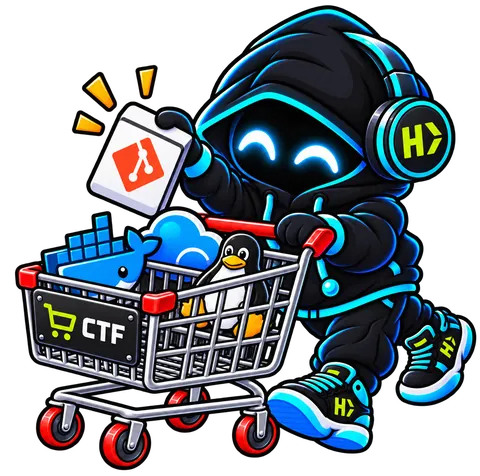
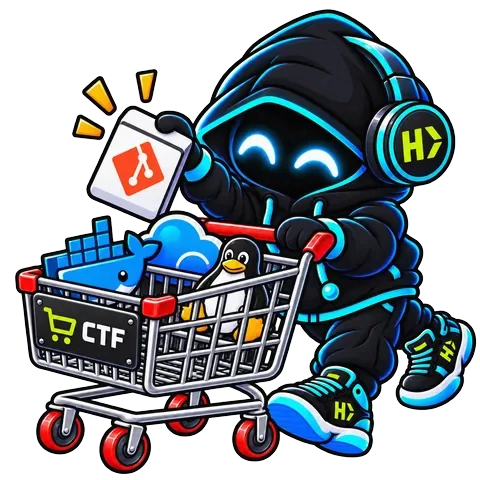
shop: 15-frame shopping mascot with the new HQ frames, one frame per moment
- Add 8 HQ frames (enter, discover, pick, fill, rush, buy, cheer, ready) as WebP;
  all 15 shop frames now share one 480x480 canvas so the character never jumps
- Moments: page open (idle), packages in view (enter), resting (arrive),
  hover a package (discover, names its size and price), Buy (pick), then rush,
  checkout (bill), placing the order (buy, held at least 0.9s), order placed
  (cheer + confetti), after ordering (ready), leaving checkout (sad),
  builder add (alternating), builder full cart (fill), remove/empty (arrive)
- The delayed entrance no longer interrupts a visitor who buys within 4 seconds
- Frame-specific motion: hop on cheer, jitter on rush, look-around on discover

Verified in a browser: all 16 moments plus the fast-buyer path, desktop and mobile, no errors.

Claude-Session: https://claude.ai/code/session_01BwzhZMmDCDnBwMmyX4xmrq

Changed region(s): [[0.0312, 0.0, 1.0, 0.9706], [0.5312, 0.8824, 0.625, 0.9706], [0.2812, 0.9412, 0.3125, 0.9706]]

diff --git a/src/pages/HostYourCTF.tsx b/src/pages/HostYourCTF.tsx
@@ -376,7 +376,9 @@ export default function HostYourCTF() {
             if (e.isIntersecting && !seenPackages.current) {
               seenPackages.current = true;
               if (restFrame.current === "idle") restFrame.current = "arrive";
-              act("arrive", "Choose a package and I'll add it to your cart.");
+              // Only make an entrance if nothing else is happening (no checkout, no action in progress).
+              if (lastDrawer.current === "closed" && ["idle", "arrive"].includes(frameRef.current))
+                act("enter", "Let's go shopping! Pick a package and I'll carry it.", 2600);
             }
           },
           { threshold: 0.25 }
@@ -389,17 +391,35 @@ export default function HostYourCTF() {
       window.clearTimeout(watch);
       window.clearTimeout(actTimer.current);
       window.clearTimeout(openTimer.current);
+      window.clearTimeout(rushTimer.current);
       io?.disconnect();
     };
   }, [act]);
 
   /* Buy: the pack goes into the trolley, then checkout opens. */
+  const rushTimer = React.useRef<number>();
   const withAdd = (label: string, open: () => void) => {
     const reduce = window.matchMedia("(prefers-reduced-motion: reduce)").matches;
-    act("add-1", label);
+    act("pick", label);
     window.clearTimeout(openTimer.current);
-    if (reduce) open();
-    else openTimer.current = window.setTimeout(open, 800);
+    window.clearTimeout(rushTimer.current);
+    if (reduce) return open();
+    rushTimer.current = window.setTimeout(() => setFrame("rush"), 650);
+    openTimer.current = window.setTimeout(open, 1150);
+  };
+
+  /* Row 4: hovering a package card while the mascot is resting -> discover it. */
+  const frameRef = React.useRef(frame);
+  React.useEffect(() => {
+    frameRef.current = frame;
+  }, [frame]);
+  const RESTING: ShopFrame[] = ["idle", "arrive", "fill", "ready", "discover"];
+  const hoverPlan = (p: (typeof plans)[number] | null) => {
+    if (!window.matchMedia("(pointer: fine)").matches || !RESTING.includes(frameRef.current)) return;
+    if (p) {
+      const n = p.features.find((f) => /\d+ challenges/.test(f))?.match(/\d+ challenges/)?.[0];
+      act("discover", `${p.name}? ${n ? `${n}, ` : ""}$${p.usd}.`);
+    } else act(restFrame.current);
   };
   const [showBuilder, setShowBuilder] = React.useState(() => typeof window !== "undefined" && window.location.hash === "#build");
 
@@ -445,26 +465,40 @@ export default function HostYourCTF() {
   /* ---------- mascot reacts to the trolley, checkout, idling and leaving ---------- */
   // Resting frame: trolley with packs while a custom build has challenges in it.
   React.useEffect(() => {
-    const rest: ShopFrame = showBuilder && challengeCount > 0 ? "add-2" : seenPackages.current ? "arrive" : "idle";
+    const rest: ShopFrame = showBuilder && challengeCount > 0 ? "fill" : seenPackages.current ? "arrive" : "idle";
     restFrame.current = rest;
   }, [showBuilder, challengeCount]);
 
   // Checkout opens -> the bill; order placed -> celebrate; closed without ordering -> sad.
   const lastDrawer = React.useRef(drawer);
+  const buyAt = React.useRef(0);
+  const cheerTimer = React.useRef<number>();
   React.useEffect(() => {
     const was = lastDrawer.current;
     lastDrawer.current = drawer;
     if (drawer === "checkout" && order) {
       act("bill", `Total ${money(order.total)}${order.quoted ? " + quote" : ""}. No payment now: we confirm your date first.`);
     } else if (drawer === "done") {
-      act("success", "Order received. Check your email for next steps.");
-      setCelebrate((n) => n + 1);
+      // Let "pressing BUY" be seen for a moment even when the order is instant.
+      const wait = Math.max(0, 900 - (Date.now() - buyAt.current));
+      window.clearTimeout(cheerTimer.current);
+      cheerTimer.current = window.setTimeout(() => {
+        act("cheer", "Order received! Check your email for next steps.");
+        setCelebrate((n) => n + 1);
+      }, wait);
     } else if (drawer === "closed" && was === "checkout") {
       act("sad", "No problem. Come back whenever you're ready.", 3200);
     } else if (drawer === "closed" && was === "done") {
-      act("success", "Thank you! See you on the scoreboard.", 3000);
+      act("ready", "Thank you! Ready for the next one anytime.", 3200);
     }
   }, [drawer, order, act]);
+
+  React.useEffect(() => {
+    if (!submitting) return;
+    buyAt.current = Date.now();
+    act("buy", "Placing your order…");
+  }, [submitting, act]);
+  React.useEffect(() => () => window.clearTimeout(cheerTimer.current), []);
 
   // Idle for 30s -> looks around with a hint (twice at most).
   React.useEffect(() => {
@@ -535,7 +569,7 @@ export default function HostYourCTF() {
     // Is anything left in the whole build after this removal?
     const leftAfter = challengeCount - (cur - next);
     if (leftAfter <= 0) act("arrive", "Your cart is empty. Add a category to start.", 2400);
-    else act("idle", `Removed ${cur - next} × ${catName(catId)} (${tier}).`, 1300);
+    else act("arrive", `Removed ${cur - next} × ${catName(catId)} (${tier}).`, 1300);
     setQty(catId, tier, next);
   };
 
@@ -881,6 +915,8 @@ export default function HostYourCTF() {
           {plans.map((plan) => (
             <article
               key={plan.id}
+              onPointerEnter={() => hoverPlan(plan)}
+              onPointerLeave={() => hoverPlan(null)}
               className={`relative flex flex-col p-6 ${plan.featured ? "card-luxe lg:-translate-y-3" : "sticker"}`}
             >
               <div className="flex items-start justify-between">

diff --git a/src/index.css b/src/index.css
@@ -569,7 +569,7 @@ img[loading="lazy"] { transition: filter 0.3s; }
   filter: blur(26px); opacity: .55; animation: shop-pulse 2.8s ease-in-out infinite; transition: transform .35s ease; }
 @keyframes shop-pulse { 0%,100% { opacity: .4; } 50% { opacity: .9; } }
 [data-hot] .shop-aura { transform: scale(1.2); animation-duration: 1s; }
-[data-frame="success"] .shop-aura { background: radial-gradient(circle, rgba(198,241,53,.7), rgba(59,211,255,.25) 50%, transparent 72%); }
+[data-frame="success"] .shop-aura, [data-frame="cheer"] .shop-aura, [data-frame="ready"] .shop-aura { background: radial-gradient(circle, rgba(198,241,53,.7), rgba(59,211,255,.25) 50%, transparent 72%); }
 [data-frame="sad"] .shop-aura { background: radial-gradient(circle, rgba(120,140,255,.45), transparent 70%); }
 
 .shop-platform { position: absolute; left: 6%; right: 6%; bottom: -4%; height: 26%; pointer-events: none; perspective: 500px; }
@@ -599,7 +599,10 @@ img[loading="lazy"] { transition: filter 0.3s; }
 @keyframes shop-look { 0%,100% { transform: rotate(0); } 25% { transform: rotate(-3deg) translateY(-3px); } 60% { transform: rotate(3deg); } }
 [data-frame="sad"] .shop-float { animation-name: shop-sob; animation-duration: 1.4s; }
 @keyframes shop-sob { 0%,100% { transform: translateY(0); } 50% { transform: translateY(3px) scaleY(.98); } }
-[data-frame="success"] .shop-float { animation-name: shop-hop; animation-duration: .9s; }
+[data-frame="success"] .shop-float, [data-frame="cheer"] .shop-float { animation-name: shop-hop; animation-duration: .9s; }
+[data-frame="rush"] .shop-float { animation-name: shop-rush; animation-duration: .45s; }
+@keyframes shop-rush { 0%,100% { transform: translate(0,0) rotate(0); } 50% { transform: translate(3px,-3px) rotate(-1.5deg); } }
+[data-frame="discover"] .shop-float { animation-name: shop-look; animation-duration: 2.4s; }
 @keyframes shop-hop { 0%,100% { transform: translateY(0); } 40% { transform: translateY(-12px); } }
 
 /* trolley counter */

diff --git a/src/components/shared/ShopMascot.tsx b/src/components/shared/ShopMascot.tsx
@@ -5,9 +5,15 @@ import { useEffect, useRef, useState, type CSSProperties } from 'react';
    the frame-to-frame transition, the speech bubble, the trolley counter and
    the confetti. Motion is transform/opacity only and stops for reduced motion. */
 
-export type ShopFrame = 'idle' | 'arrive' | 'add-1' | 'add-2' | 'bill' | 'success' | 'sad';
+export type ShopFrame =
+  | 'idle' | 'arrive' | 'enter' | 'discover' | 'pick' | 'add-1' | 'add-2' | 'fill'
+  | 'rush' | 'bill' | 'buy' | 'cheer' | 'success' | 'ready' | 'sad';
 
-const FRAMES: ShopFrame[] = ['idle', 'arrive', 'add-1', 'add-2', 'bill', 'success', 'sad'];
+// Most likely next frames first, so they are cached before they are needed.
+const FRAMES: ShopFrame[] = [
+  'enter', 'arrive', 'discover', 'pick', 'rush', 'bill', 'buy', 'cheer', 'ready',
+  'add-1', 'add-2', 'fill', 'success', 'sad', 'idle',
+];
 const src = (f: ShopFrame) => `/mascots/shop/${f}.webp`;
 
 const reducedMotion = () =>
@@ -129,7 +135,7 @@ export const ShopMascot = ({
           <div ref={tiltRef} className="shop-tilt">
             <div className="shop-float">
               <div className="shop-aura" />
-              <div className="relative aspect-[480/476] w-full">
+              <div className="relative aspect-square w-full">
                 {shown.prev && (
                   <img key={`p${shown.n}`} src={src(shown.prev)} alt="" className="shop-frame shop-frame-out" draggable={false} />
                 )}
@@ -137,7 +143,7 @@ export const ShopMascot = ({
                   key={`c${shown.n}`}
                   src={src(shown.cur)}
                   width={480}
-                  height={476}
+                  height={480}
                   alt=""
                   decoding="async"
                   fetchPriority={shown.n === 0 ? 'high' : 'auto'}
